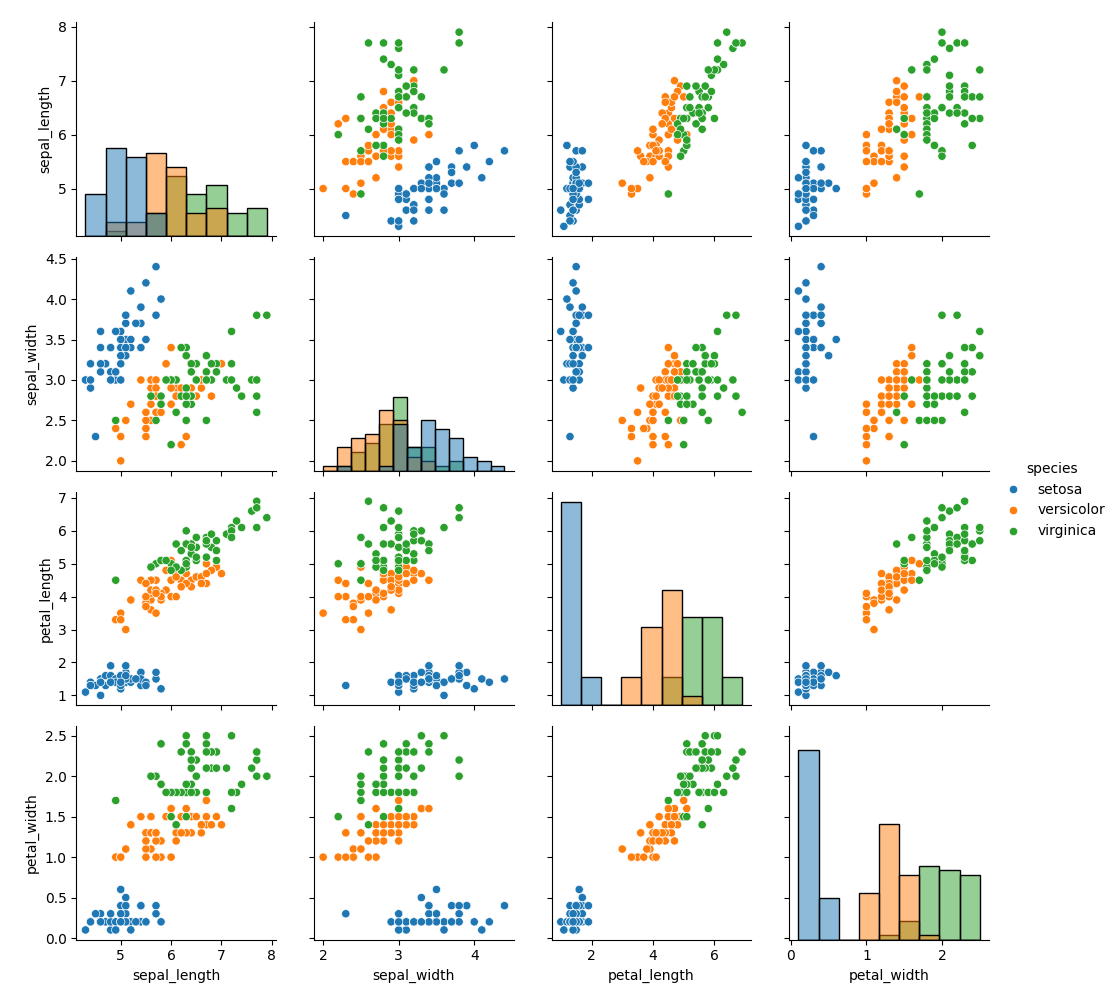
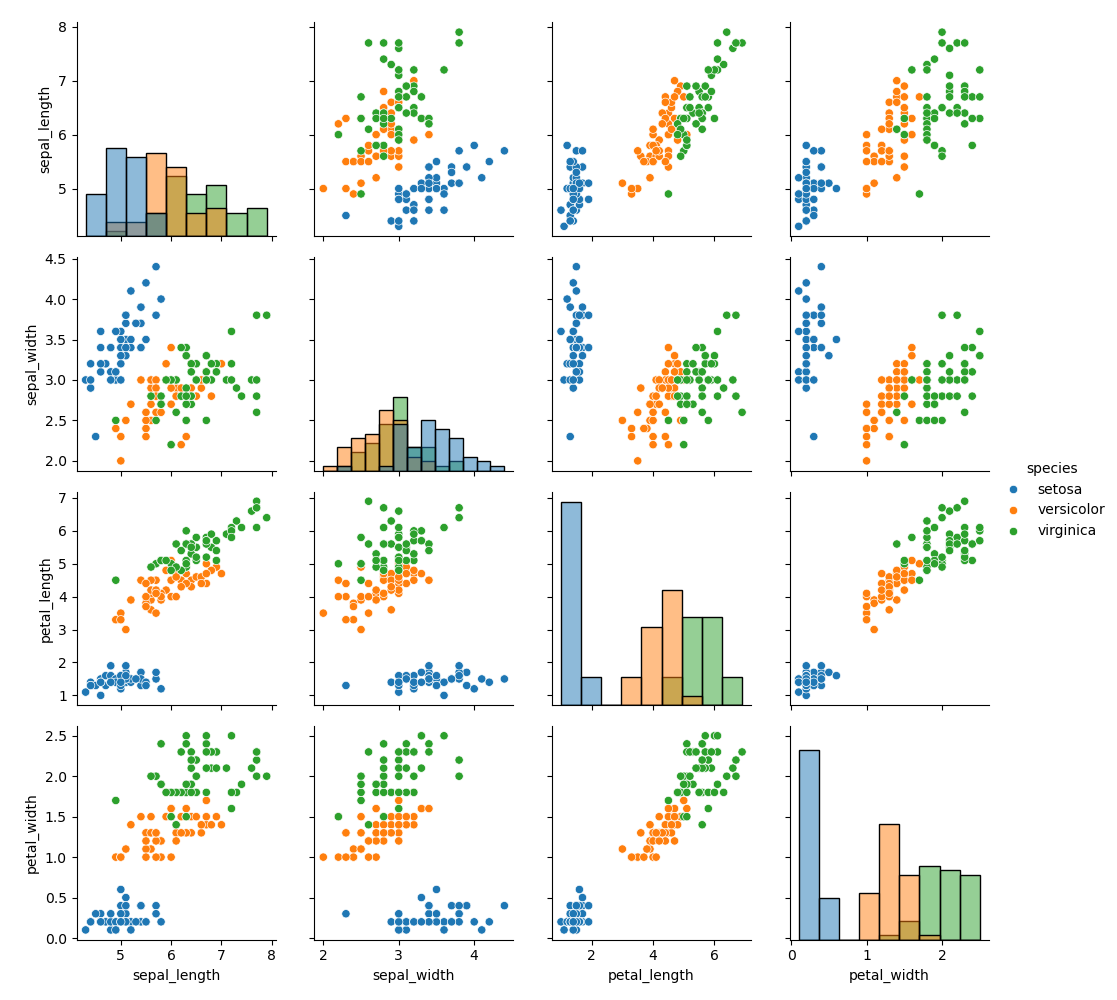
Fixed requirements.yml and script path

diff --git a/script/iris_overview.py b/script/iris_overview.py
@@ -13,4 +13,4 @@ g.map_offdiag(sns.scatterplot)
 g.add_legend()
 
 # save plot
-g.figure.savefig("/home/xaemmo/teaching/reproducible_code/assignment_repos/output.png")
+g.figure.savefig("../output/output_250530_12.53.png")
